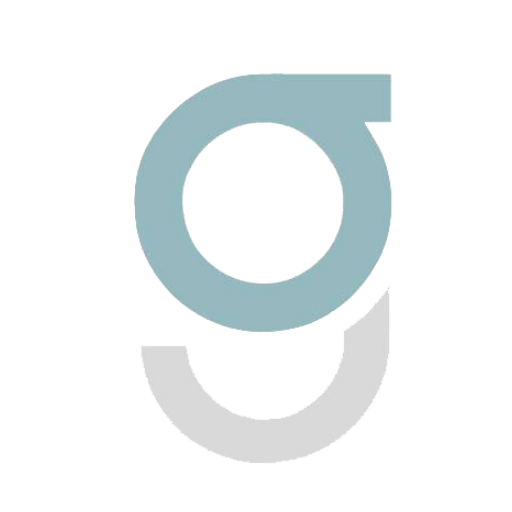
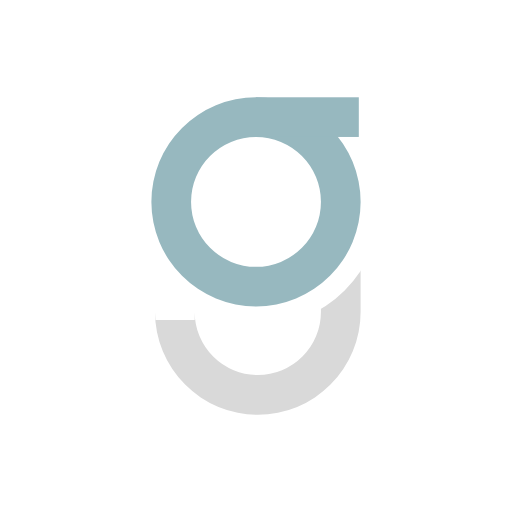
Equipa da clínica e ícone redesenhado
- Beatriz Santos, Catarina Araújo e Gabriela Neves entram uma vez em cada
  aparelho, a seguir ao Gabriel, com o PIN 1234 para começar.
- Ícone refeito a partir do logótipo em vetor: nítido e centrado, com margem.

Changed region(s): [[0.25, 0.125, 0.7812, 0.9062]]

diff --git a/index.html b/index.html
@@ -1290,6 +1290,13 @@ var RES_NAME = {'':'Sem resistência', kg:'Carga em kg', band:'Elástico (cor)'}
 var THS = [
   {id:'t1', name:'Gabriel Nunes', ini:'GN', role:'Diretor clínico', admin:true, av:1, pin:'1234'}
 ];
+// Fisioterapeutas da clínica: entram uma vez em cada aparelho, por esta ordem, logo a seguir ao Gabriel.
+// Depois são perfis como os outros: o Gabriel pode editá-los ou removê-los no ecrã Equipa
+var EQUIPA = [
+  {id:'f2', name:'Beatriz Santos', ini:'BS', role:'Fisioterapeuta', admin:false, av:2, pin:'1234', added:true},
+  {id:'f3', name:'Catarina Araújo', ini:'CA', role:'Fisioterapeuta', admin:false, av:3, pin:'1234', added:true},
+  {id:'f4', name:'Gabriela Neves', ini:'GN', role:'Fisioterapeuta', admin:false, av:2, pin:'1234', added:true}
+];
 
 var T_FLEX = {id:'flexj', name:'Flexão do joelho', unit:'°', uni:true};
 var T_RE = {id:'re', name:'Rotação externa do ombro', unit:'°', uni:true};
@@ -1448,7 +1455,7 @@ function seed(){
     });
     patients.push({id:P.id, code:P.code, alias:P.alias, proto:P.proto, side:P.side, goal:P.goal, stars:(P.stars||[]).slice(), since:(first||today).toISOString()});
   });
-  return {v:3, me:null, live:null, therapists:THS.map(function(t){return Object.assign({},t);}), exercises:exercises, protocols:protocols,
+  return {v:3, me:null, live:null, teamSeed:1, therapists:THS.concat(EQUIPA).map(function(t){return Object.assign({},t);}), exercises:exercises, protocols:protocols,
     patients:patients, sessions:sessions, tests:tests, notes:seedNotes(patients)};
 }
 // Notas rápidas de exemplo: [paciente, há quantos dias, terapeuta, hora, texto]
@@ -1504,7 +1511,7 @@ D.patients.forEach(function(p){ p.stars = p.stars||[]; });
 if(!D.notes) D.notes = seedNotes(D.patients);
 if(!D.ideas) D.ideas = [];
 fixTeam(D);
-// A equipa: o Gabriel (t1) vem de THS e é sempre diretor clínico; as outras pessoas são adicionadas por ele no ecrã Equipa.
+// A equipa: o Gabriel (t1) vem de THS e é sempre diretor clínico; as fisioterapeutas de EQUIPA entram uma vez; outras pessoas são adicionadas por ele no ecrã Equipa.
 // Perfis de exemplo de versões anteriores saem; os registos de quem já não existe passam para o Gabriel
 function fixTeam(d){
   var old=d.therapists||[], g=old.find(function(t){ return t.id==='t1'; }), extra=old.filter(function(t){ return t.added; });
@@ -1514,6 +1521,14 @@ function fixTeam(d){
     if(!extra.some(function(t){ return t.name.toLowerCase()===g.name.toLowerCase(); }))
       extra.push({id:'u'+uid(), name:g.name, ini:initials(g.name), role:g.role && g.role!==THS[0].role ? g.role : 'Fisioterapeuta', admin:false, av:(extra.length+1)%3+1, pin:g.pin, added:true});
     g=null; if(d.me==='t1') d.me=null;
+  }
+  if(!d.teamSeed){
+    // quem já tinha sido adicionado à mão com o mesmo nome fica com o seu perfil e PIN, só muda de lugar na lista
+    var first3=EQUIPA.map(function(s){
+      var i=extra.findIndex(function(t){ return t.name.toLowerCase()===s.name.toLowerCase(); });
+      return i<0 ? Object.assign({}, s) : extra.splice(i,1)[0];
+    });
+    extra=first3.concat(extra); d.teamSeed=1;
   }
   d.therapists = [Object.assign({}, THS[0], g?{pin:g.pin}:{}, {admin:true})].concat(extra);
   var ok={}; d.therapists.forEach(function(t){ ok[t.id]=1; });
@@ -2148,7 +2163,7 @@ function viewLogin(){
       (D.therapists.length===1?'<p class="small muted">Para juntar o resto da equipa: entre como '+esc(first(D.therapists[0].name))+', toque no seu nome no canto de cima e depois em <b>Equipa</b>.</p>':'');
   }
   return '<div class="login"><div class="login-card"><div class="brand-lg">'+logo()+'<div><h1 class="brand-word">OSTEOGAB</h1><p class="muted">Sessões · registo de treino e evolução dos pacientes</p></div></div>'+
-    body+'<p class="demo-note">Protótipo com dados fictícios. PIN de demonstração do Gabriel: <b>1234</b></p></div></div>';
+    body+'<p class="demo-note">Protótipo com dados fictícios. PIN de demonstração: <b>1234</b></p></div></div>';
 }
 
 /* ---------- Equipa ----------
@@ -3189,7 +3204,7 @@ var A = {
   account:function(){ ui.modal={type:'account'}; render(); },
   logout:function(){ D.me=null; save(); releaseWake(); ui=freshUi(); render(); },
   resetAsk:function(){ ui.modal.confirmReset=true; render(); },
-  reset:function(){ var m=D.me, ideas=D.ideas, team=D.therapists; D=seed(); D.me=m; D.ideas=ideas; D.therapists=team; exIdx=null; seedPlans(); releaseWake(); ui=freshUi(); render(); toast('Dados de demonstração repostos'); },
+  reset:function(){ var m=D.me, ideas=D.ideas, team=D.therapists; D=seed(); D.me=m; D.ideas=ideas; D.therapists=team; D.teamSeed=1; exIdx=null; seedPlans(); releaseWake(); ui=freshUi(); render(); toast('Dados de demonstração repostos'); },
   noteNew:function(d){
     var pid = d.pid || (ui.view==='session' && D.live ? D.live.patientId : ui.view==='patient' ? ui.patientId : ui.view==='report' && SS(ui.sessionId) ? SS(ui.sessionId).patientId : null);
     ui.modal={type:'note', id:null, pid:pid, text:'', pq:''}; render(); focusSoon(pid?'noteText':'notePQ');

diff --git a/README.md b/README.md
@@ -4,7 +4,7 @@ Protótipo de uma app para registar sessões de fisioterapia no ginásio, pensad
 
 - Um único ficheiro: `index.html` (HTML, CSS e JavaScript, sem dependências nem build).
 - Os dados são fictícios e ficam guardados só no browser de cada aparelho (localStorage).
-- Para entrar: escolher Gabriel Nunes (diretor clínico) e usar o PIN `1234`. O resto da equipa é adicionado por ele: nome no canto de cima → **Equipa** (nome, função, PIN de 4 algarismos e se pode editar protocolos). A equipa fica guardada no iPad e mantém-se ao repor os dados de demonstração.
+- Equipa: Gabriel Nunes (diretor clínico) e as fisioterapeutas Beatriz Santos, Catarina Araújo e Gabriela Neves, todos com o PIN `1234` para começar. O Gabriel muda os PINs e junta mais pessoas no nome no canto de cima → **Equipa** (nome, função, PIN de 4 algarismos e se pode editar protocolos). A equipa fica guardada no iPad e mantém-se ao repor os dados de demonstração.
 
 Para abrir localmente, basta abrir `index.html` no browser.
 
